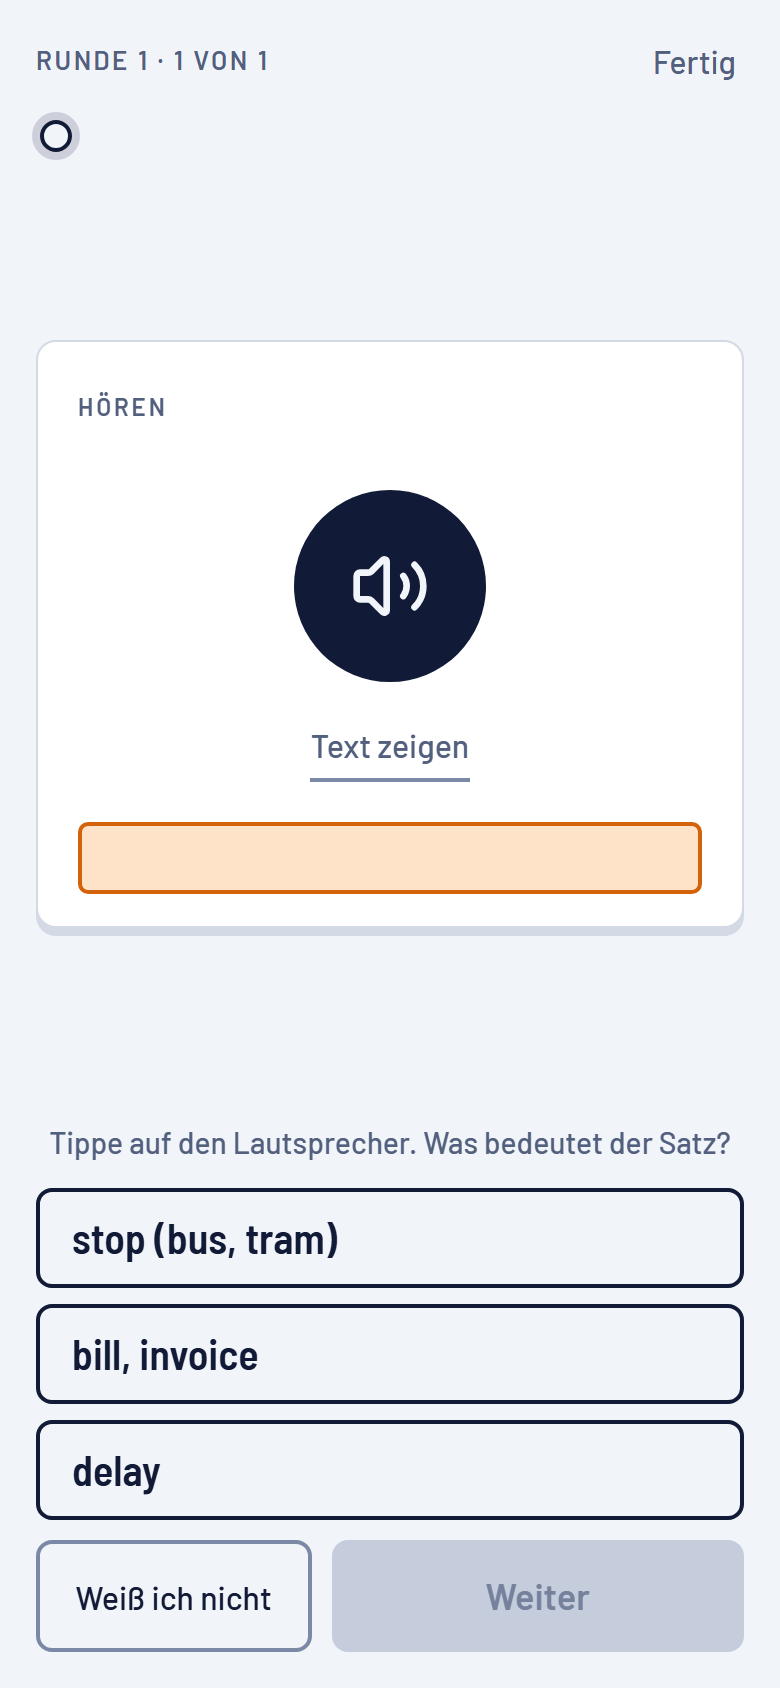
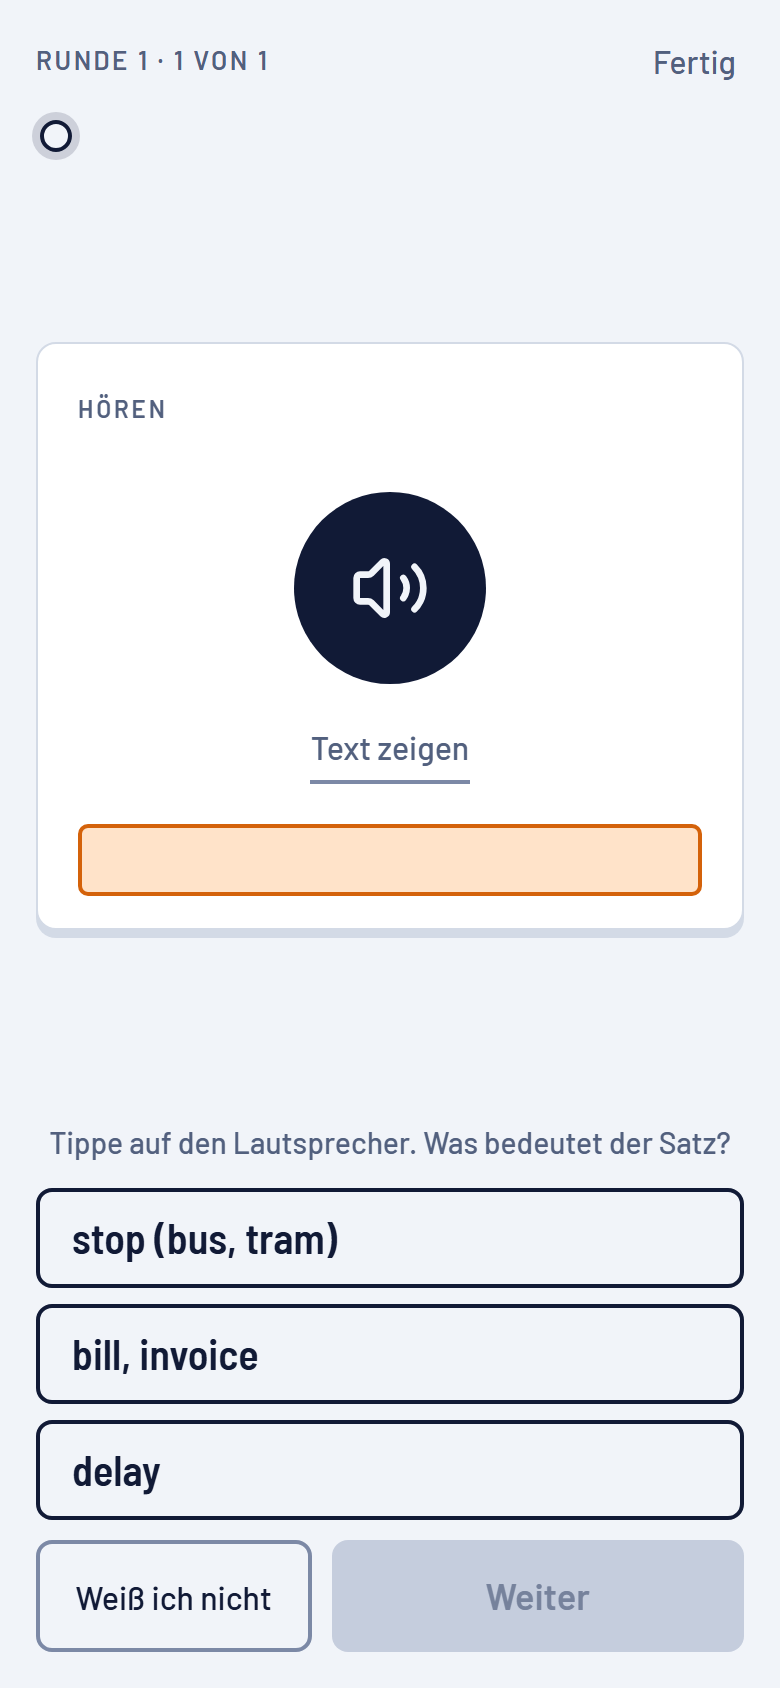
Round 2: small-screen fit, prefetch wiring, offline check, screenshots, report

diff --git a/app/src/styles/base.css b/app/src/styles/base.css
@@ -44,11 +44,11 @@ button:active:not(:disabled) { transform: scale(.975); }
 .stop.pop i { animation: pop .42s var(--ease); }
 
 /* ---------- zone 2: the card ---------- */
-.mid { flex: 1; display: flex; margin: 10px 0 14px; min-height: 0; min-width: 0; }
+.mid { flex: 1; display: flex; margin: 10px 0 12px; min-height: 0; min-width: 0; overflow-y: auto; overscroll-behavior: contain; }
 .card {
-  flex: 0 1 auto; width: 100%; min-width: 0; max-height: 100%; margin: auto 0; display: flex; flex-direction: column;
+  flex: none; width: 100%; min-width: 0; margin: auto 0; display: flex; flex-direction: column;
   background: var(--card); border: 1px solid var(--edge); border-radius: 10px; box-shadow: 0 4px 0 var(--edge);
-  padding: 16px 20px 16px; min-height: 0; position: relative; overflow: hidden;
+  padding: 16px 20px 16px; position: relative;
 }
 .card.cl { min-height: 280px; }
 .card-head { display: flex; align-items: center; justify-content: space-between; min-height: 32px; margin-bottom: 8px; }
@@ -242,21 +242,36 @@ details.more-set[open] > summary::before { content: "−"; }
   .quiet:hover, .link:hover { color: var(--ink); }
 }
 @media (max-height: 700px) {
-  .zone { min-height: 120px; margin-top: 12px; }
-  .mean { font-size: 32px; }
-  .ex { font-size: 19px; margin-top: 8px; }
-  .q { font-size: 28px; }
-  .card.cl { min-height: 180px; }
-  .card { padding: 12px 16px 12px; }
-  .tag { min-height: 44px; font-size: 19px; }
-  .primary { min-height: 50px; }
-  .pair .ghost { min-height: 50px; }
-  .ch { height: 74px; font-size: 13px; }
-  .sum h1, .page-title { font-size: 36px; }
-  .stats dd { font-size: 34px; }
-  .play { width: 72px; height: 72px; margin: 8px 0; }
-  .chip { min-height: 40px; font-size: 17px; }
-  .built { min-height: 90px; }
+  #app { padding-top: max(4px, env(safe-area-inset-top)); padding-bottom: max(12px, env(safe-area-inset-bottom)); }
+  .top { gap: 2px; }
+  .row { min-height: 38px; }
+  .mid { margin: 6px 0 8px; }
+  .card { padding: 10px 14px 12px; }
+  .card-head { min-height: 28px; margin-bottom: 2px; }
+  .art { margin-bottom: 2px; padding: 3px 8px; }
+  .zone { min-height: 84px; margin-top: 8px; }
+  .back { padding-top: 6px; gap: 6px; }
+  .mean { font-size: 28px; }
+  .ex { font-size: 18px; margin-top: 6px; }
+  .q { font-size: 27px; }
+  .qtr { margin-top: 8px; font-size: 15px; }
+  .card.cl { min-height: 0; }
+  .act { gap: 6px; }
+  .hint { font-size: 14px; min-height: 18px; }
+  .tags { gap: 6px; }
+  .tag { min-height: 42px; font-size: 18px; padding: 4px 14px; }
+  .primary, .pair .ghost { min-height: 46px; font-size: 16px; }
+  .ch { height: 68px; font-size: 12.5px; gap: 6px; }
+  .sum h1, .page-title { font-size: 34px; }
+  .stats dd { font-size: 32px; }
+  .stats div { padding: 8px 0 6px; }
+  .kicker { margin-top: 18px; }
+  .play { width: 60px; height: 60px; margin: 4px 0 2px; }
+  .slot.wide { font-size: 21px; }
+  .chip { min-height: 38px; font-size: 16px; padding: 0 10px; }
+  .chips { gap: 6px; }
+  .built { min-height: 64px; margin-top: 8px; padding: 8px; gap: 6px; }
+  .end h1 { font-size: 44px; }
 }
 @media (prefers-reduced-motion: reduce) {
   .enter { animation: fade .2s both; }

diff --git a/core/src/engine/eligibility.ts b/core/src/engine/eligibility.ts
@@ -42,7 +42,7 @@ export function rowEligibility(w: WordRecord, all: readonly WordRecord[]): RowEl
   else if (w.examples.length < 2) add('example_2_de, example_2_en', ['kontext2'], 'Zweiter Beispielsatz fehlt');
   if (!w.collocation) add('collocation', ['kollokation'], 'Wortverbindung fehlt');
   else if (!collocationSplit(w)) hints.push({ column: 'collocation', unlocks: ['kollokation'], why: 'Wortverbindung enthält das Wort nicht' });
-  if (!w.prep && w.pos !== 'phrase') add('prep', ['praeposition'], 'Präposition fehlt');
+  if (!w.prep && (w.pos === 'verb' || w.pos === 'adj')) add('prep', ['praeposition'], 'Präposition fehlt');
   // A record with sentences but no choice exercise usually lacks neighbours of the same word class.
   if (!has.has('bedeutung') && !w.wrong.length) hints.push({ column: 'wrong_1, wrong_2', unlocks: ['bedeutung', 'hoeren'], why: 'zu wenige ähnliche Wörter für Antwortmöglichkeiten' });
   return { wordId: w.id, de: w.de, available, hints };

diff --git a/app/src/run/Run.tsx b/app/src/run/Run.tsx
@@ -53,6 +53,13 @@ export function Run({ ctx, run, onFinish, onLeave, onExpire }: {
     return () => document.removeEventListener('visibilitychange', onVis);
   }, [ctx.settings.runGapMin]);
 
+  // Opt-in: generate the cloud voice for this run's spoken texts while online, within the daily cap.
+  useEffect(() => {
+    if (!ctx.settings.audio.prefetch) return;
+    const texts = run.cards.flatMap((c) => (c.exercise.type === 'hoeren' ? [c.exercise.sentence] : c.exercise.type === 'karte' ? [c.exercise.sentence || c.word.de] : []));
+    void ctx.audio.prefetch(texts);
+  }, [run.id]);
+
   useEffect(() => { shownAt.current = Date.now(); answered.current = false; leaving.current = false; }, [i]);
 
   const speak = (text: string, key: string) => { void ctx.audio.speak(text, key); };

diff --git a/app/src/run/parts.tsx b/app/src/run/parts.tsx
@@ -65,7 +65,7 @@ export function useFit(ref: RefObject<HTMLElement>, max: number, dep: unknown) {
     const el = ref.current;
     if (!el) return;
     const fit = () => {
-      let s = max;
+      let s = innerHeight < 700 ? Math.min(max, 52) : max;
       el.style.fontSize = `${s}px`;
       while (el.scrollWidth > el.clientWidth + 1 && s > 28) { s -= 2; el.style.fontSize = `${s}px`; }
     };

diff --git a/docs/design/ROUND2_REPORT.md b/docs/design/ROUND2_REPORT.md
@@ -1,0 +1,32 @@
+# Round 2 report
+
+Local commits only; nothing pushed. Screenshots (synthetic demo deck, never the private seed): [round2/](round2/). Decisions and deviations: [DECISIONS.md](DECISIONS.md). Algorithm: [../ENGINE.md](../ENGINE.md).
+
+## What changed
+- **Engine** (`core/src/engine/`): eligibility per column set and thin-row hints; ranked distractors with an ambiguity guard and confusion priority; Plural, Kollokation and Reihenfolge added; seeded run composer on the hidden FSRS state; runs from the event log (id, else inactivity gap); dashboard aggregates; settings with export/import.
+- **Run flow** (`app/`): three-zone layout on every exercise, route with per-stop grade colour, Karte with peelable flap and four-step self-rating, choice with fly-to-slot, typed, reorder, summary, calm end. Barlow self-hosted, one palette in `tokens.css`.
+- **Verlauf**, grouped **Einstellungen** (Übungen, Audio, Daten, Darstellung, Ziele, Über) with `speak(text, key)` over device voice or ElevenLabs (own key, cache, cap, fallback).
+
+## Acceptance criteria
+| | Result | How it was checked |
+| --- | --- | --- |
+| A1 No card dismissed by swipe or accidental tap | pass | no swipe handlers exist outside the flap; the flap code is tested not to call next/answer; exits are *Weiter*, the four rating buttons and *Fertig* (`rules.test.ts`) |
+| A2 Same three-zone layout on every type | pass | `Run` always renders header / card / actions; a scripted play-through of all 10 graded types checks the zones on each card (`node tools/app/shots.mjs --flow`) |
+| A3 First-time user can say what / where / what next in 10 s | pass by self-review | each card names its exercise (kind label), the header says *Runde N · k von n* with the route, a one-line hint says what to do; screenshots at 390×844 and 320×600, light and dark, in `round2/`. Not tested with a real first-time user |
+| A4 No streak, overdue, backlog, comparison, red | pass | test scans all app source and CSS for the words and for red values; contrast test fails on a red token. (`backlogPause` remains an internal engine config name in `core/`; it is never shown) |
+| A5 Everything derives from sheet columns or the log | pass | test: no demo words in UI code; every number in Verlauf comes from `dashboard()` over the log |
+| A6 Works offline after first load, incl. audio fallback | pass | headless Chrome: load build, wait for service worker, go offline, reload: card and fonts render (`--offline`); audio tests cover cache hit offline and device fallback |
+| A7 Tests | pass | core 375 (295 existing + 80 new), app 70, typecheck, PWA build. One fixture in `scheduler.test.ts` was given distinct headwords and glosses; no assertion changed (R2-7) |
+| A8 Licences in docs and Settings > Über | pass | `NOTICE.md`, `screens/licences.ts`, test that every font family and row is covered |
+| A9 Hygiene | pass | privacy audit clean; key only in `localStorage`, only to `api.elevenlabs.io`, never logged or exported (tests); production CSP limits `connect-src`; no other host appears in source (test) |
+
+## Deviations from the prototype
+Listed in [DECISIONS.md](DECISIONS.md) ("Deviations"). Main ones: teal text, selected-state text and control borders darkened to reach WCAG AA; a hint line and exercise label on every card; *Weiß ich nicht* beside *Weiter* on every graded exercise; the week view is part of Verlauf.
+
+## Open risks
+- Judged only in headless Chrome here: flap drag feel, haptics, audio unlock after a tap, real voice quality and the 320 px layout on a real phone. These need the Android phone.
+- ElevenLabs is called straight from the browser. CORS works today, but the docs do not promise it; failure falls back to the device voice.
+- *Letzte Synchronisierung* is a placeholder: the `sheet` adapter is Phase E.
+- Disabling a gate exercise (Lücke, Tippen, Zweiter Kontext) stops promotion for words at that stage (shown as a note in Settings).
+- A first run on a sheet of new words is short (2–3 Karten), by the "start light" rule.
+- Nothing was shown to a first-time user; A3 is a self-review.
